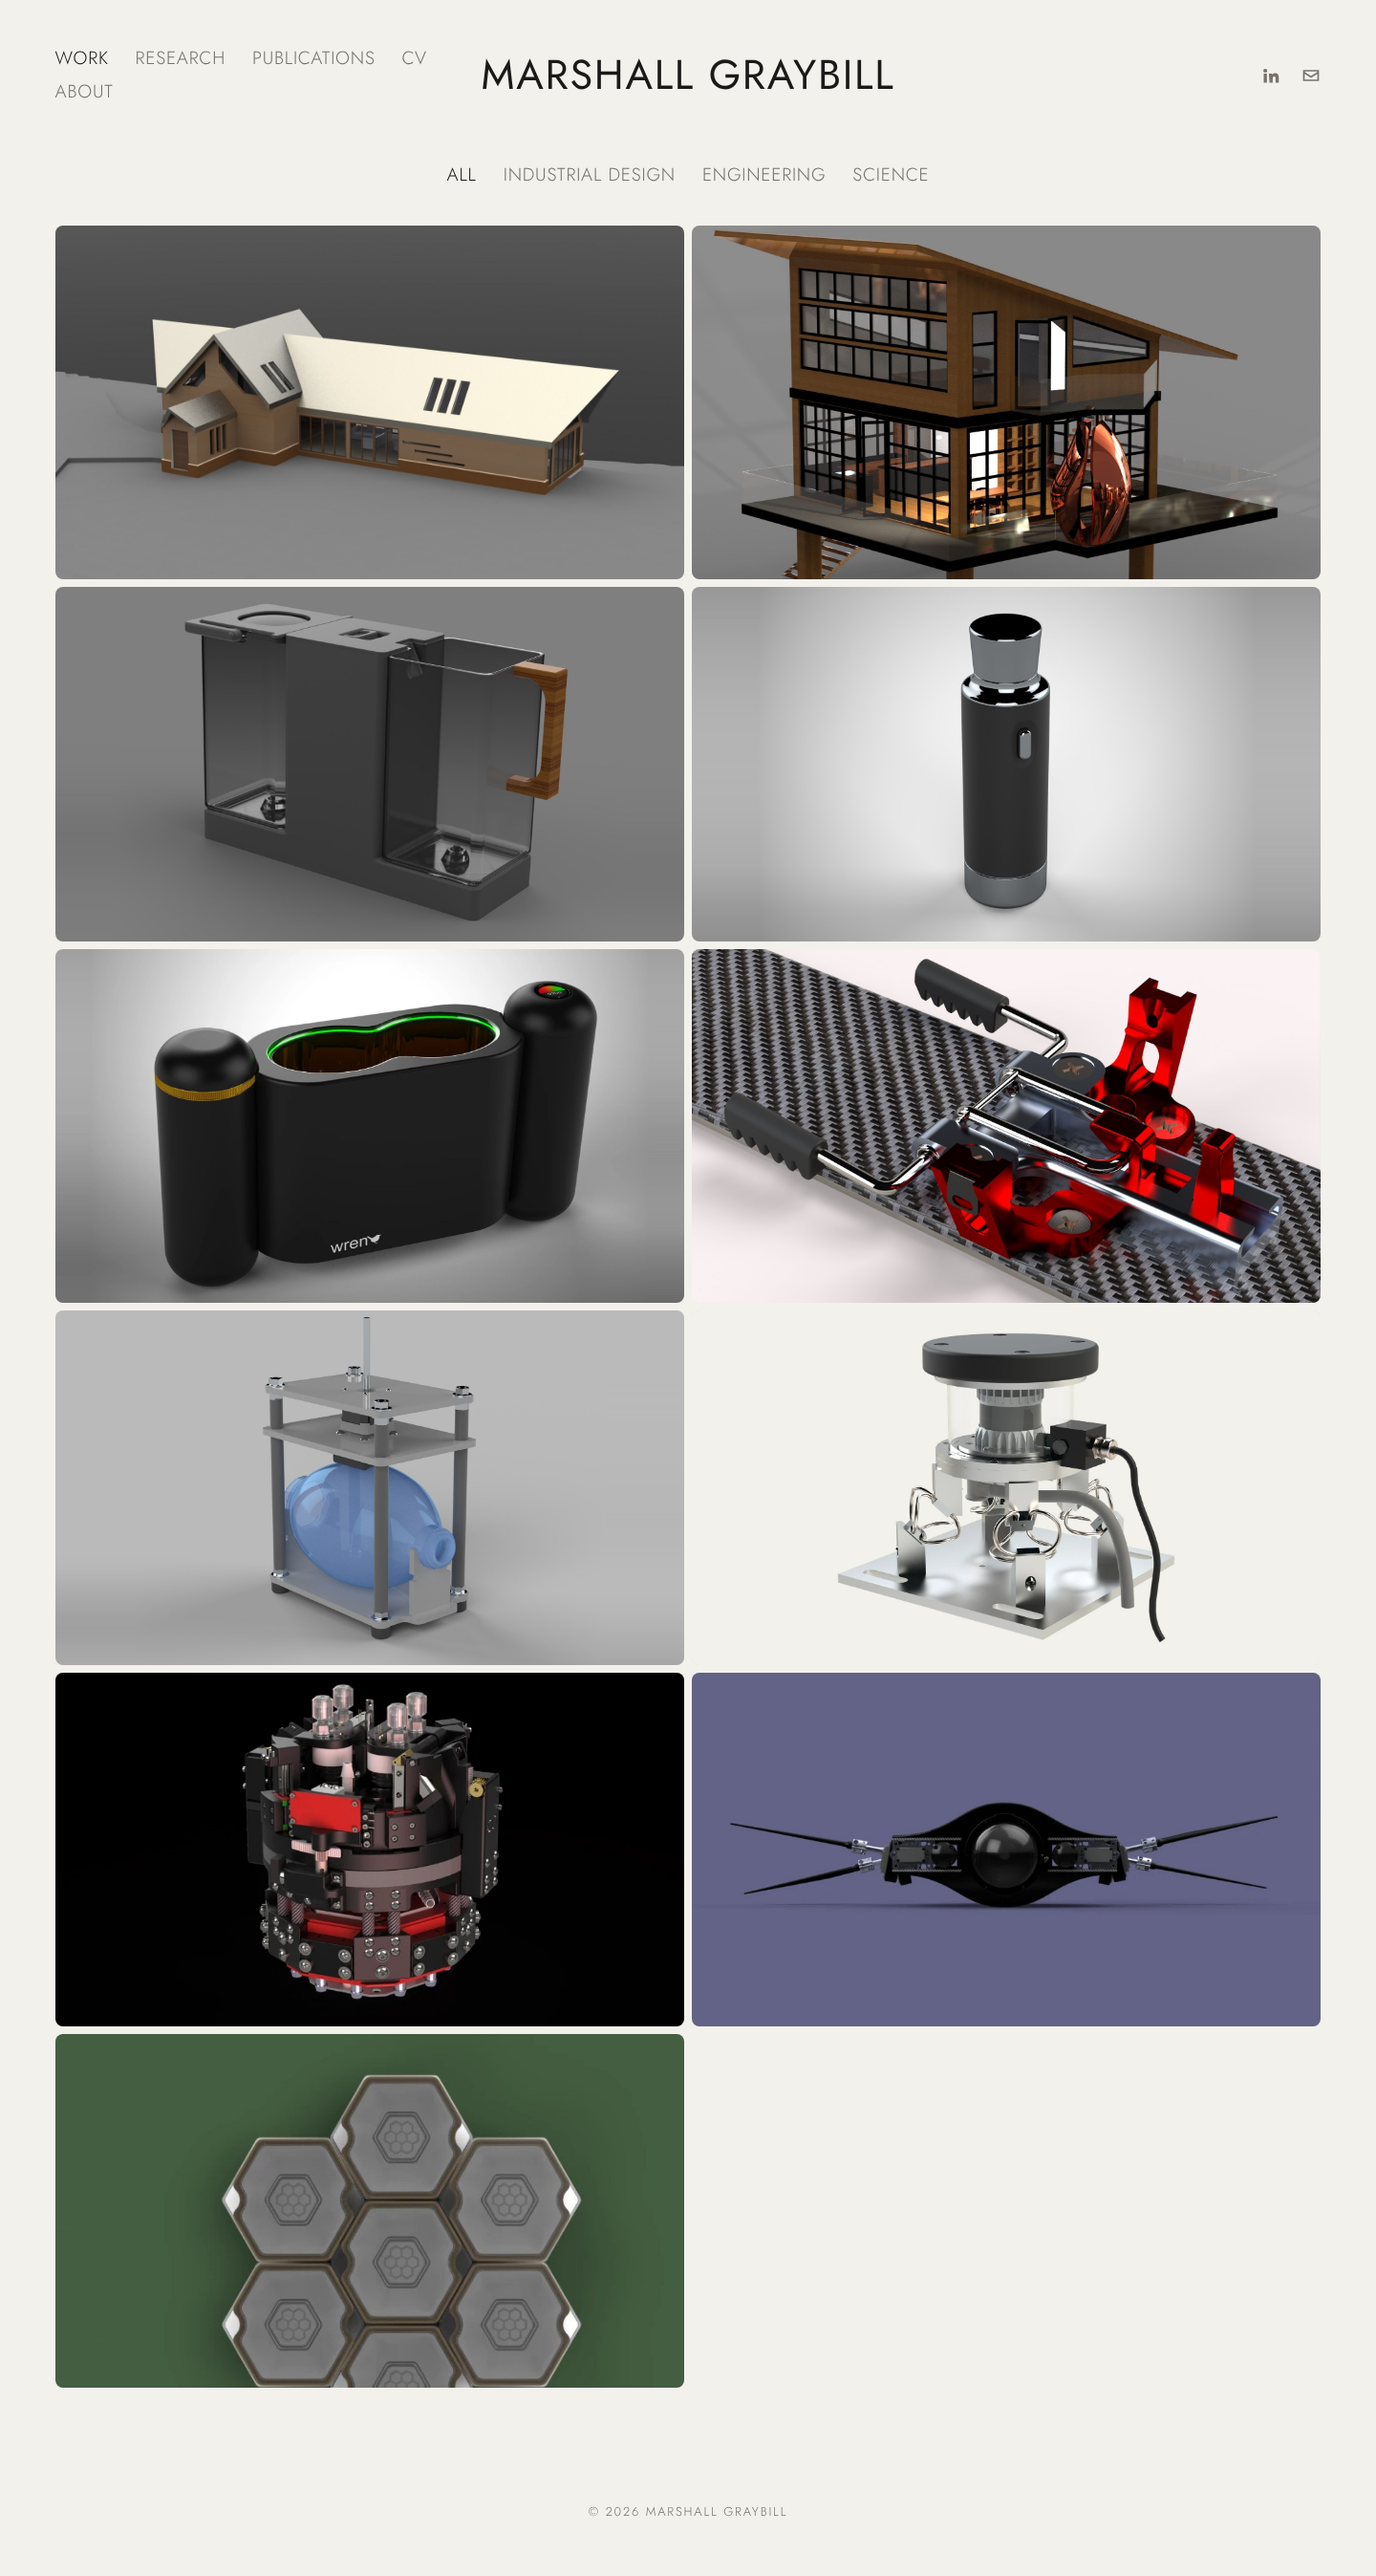
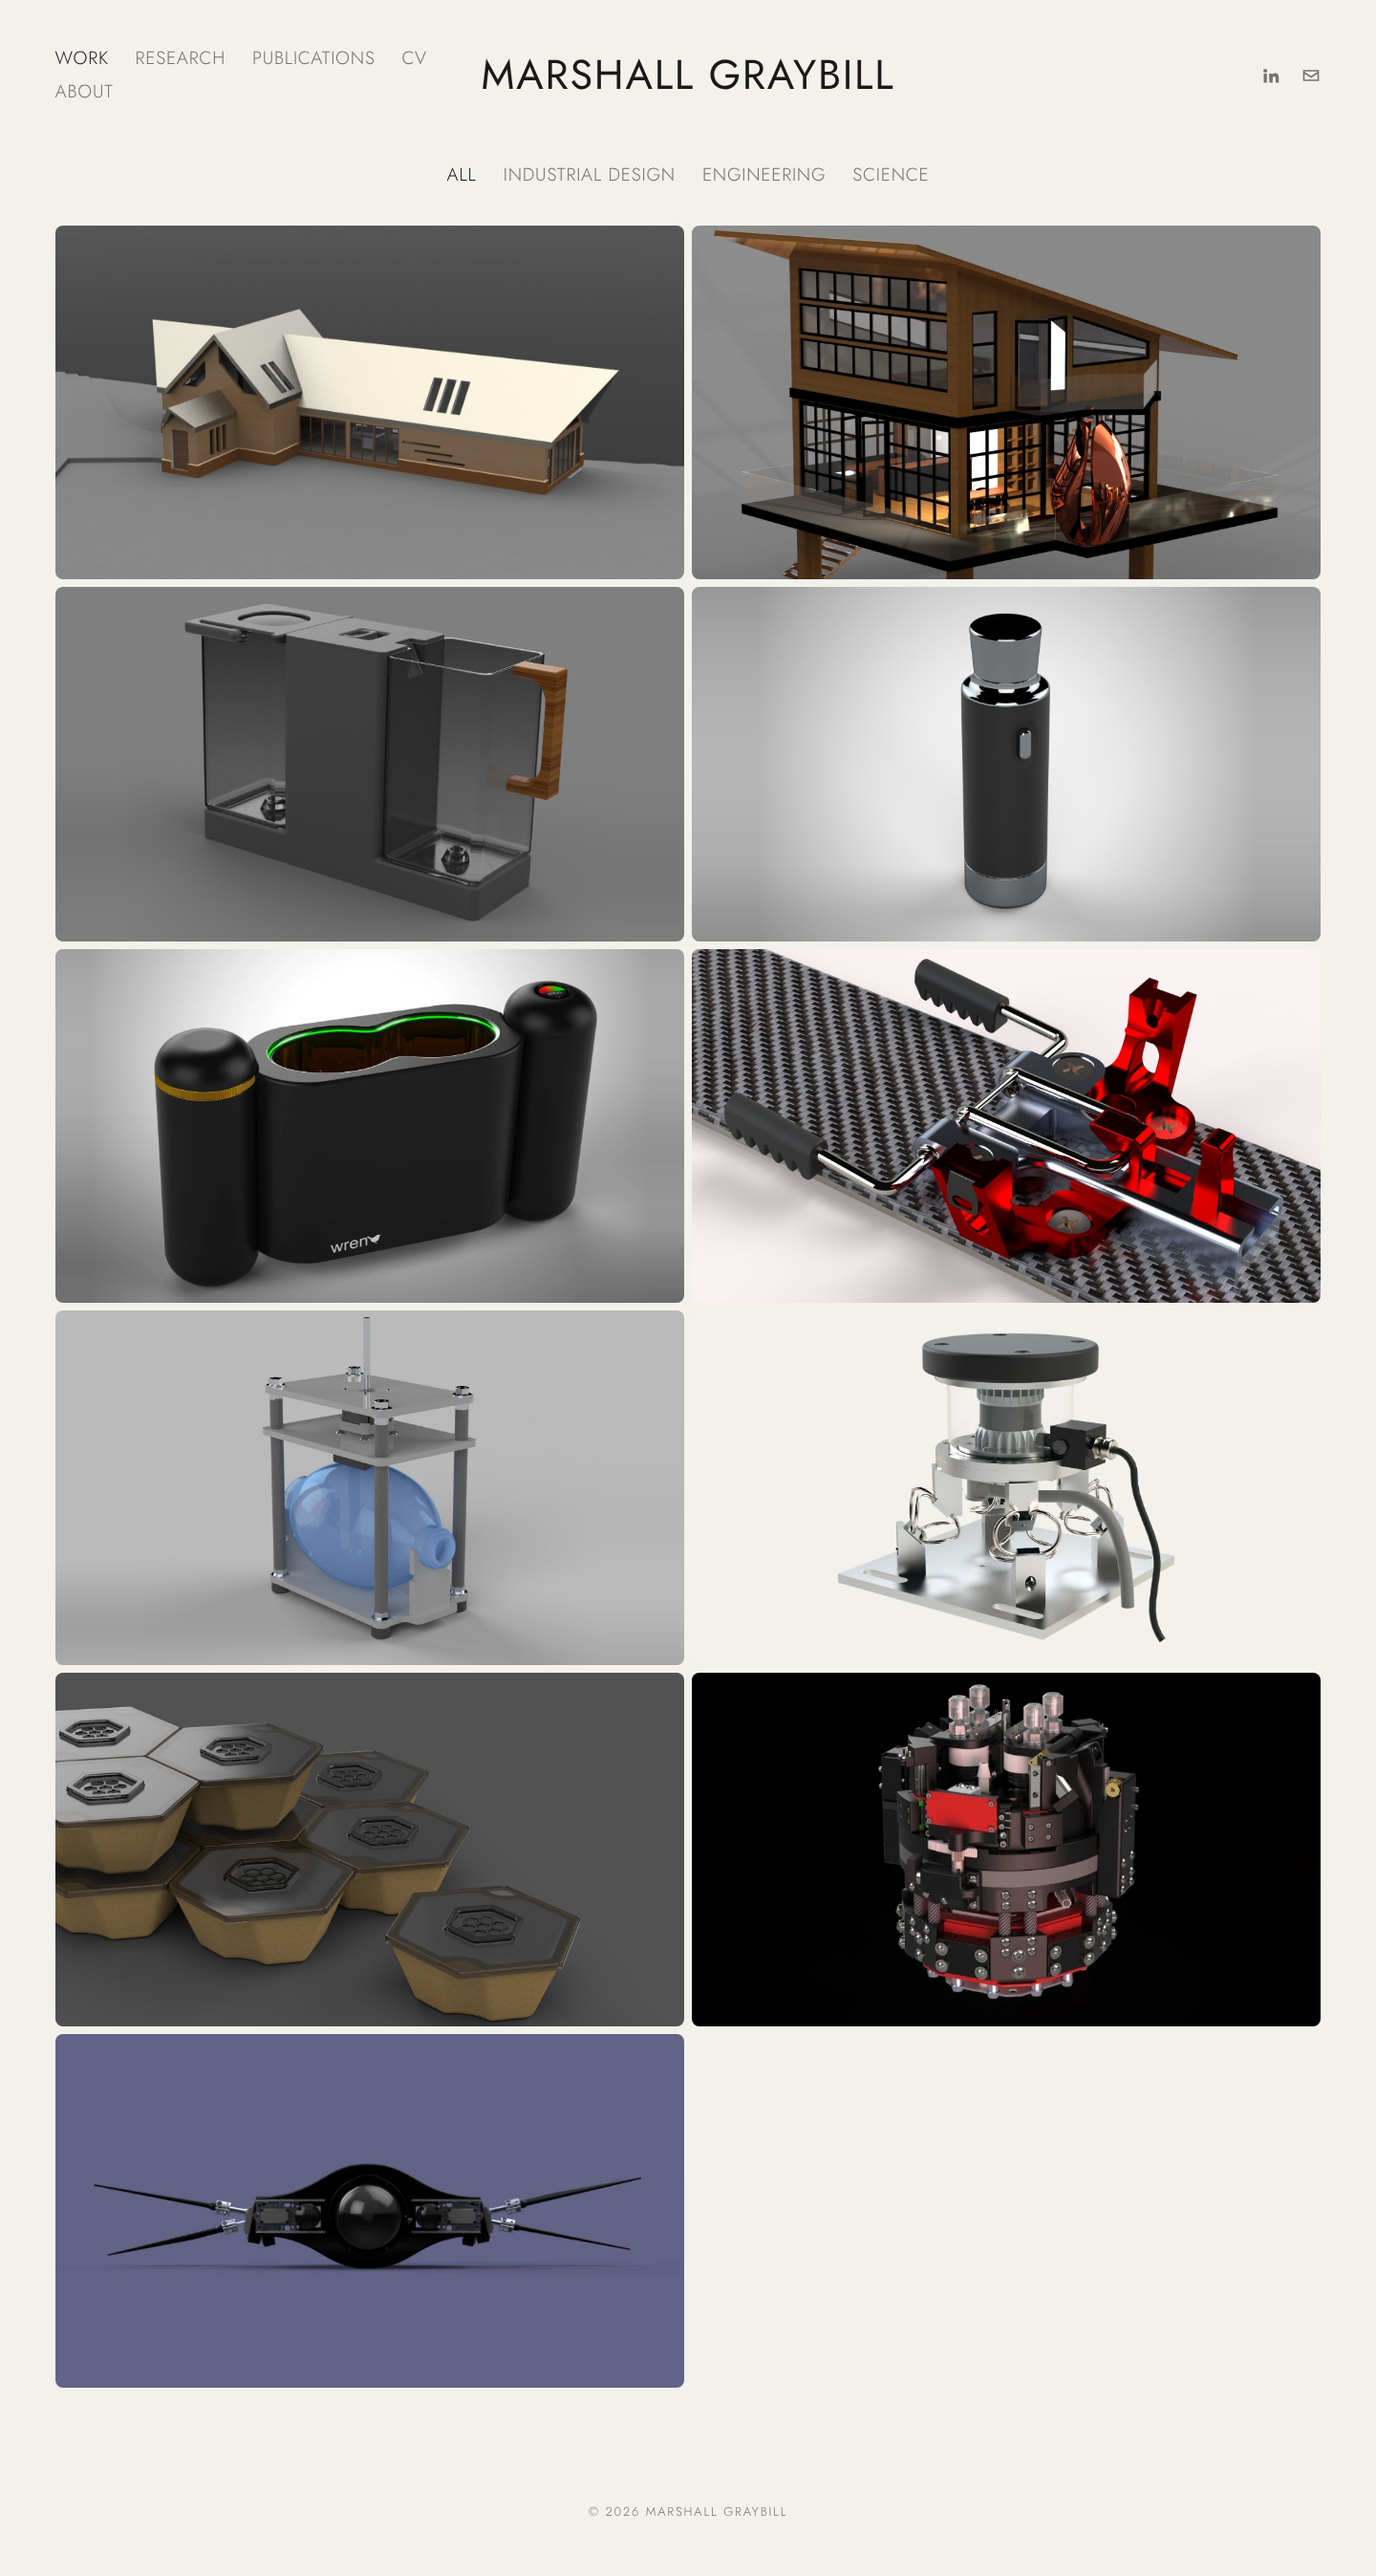
Add Spent Packaging Innovations project page; replace hex placeholder
Claude-Session: https://claude.ai/code/session_01FRyJPBebUtKmxdzujR9oGm

Changed region(s): [[0.0312, 0.6234, 0.9688, 0.9351]]

diff --git a/projects/spent.html b/projects/spent.html
@@ -1,0 +1,76 @@
+<!doctype html>
+<html lang="en">
+<head>
+  <meta charset="utf-8">
+  <meta name="viewport" content="width=device-width, initial-scale=1">
+  <title>Spent Packaging Innovations · Marshall Graybill</title>
+  <meta name="description" content="Spent Innovations: home-compostable hexagonal takeout containers made from brewery spent grain and agar-based bio-plastic.">
+  <link rel="preconnect" href="https://fonts.googleapis.com">
+  <link rel="preconnect" href="https://fonts.gstatic.com" crossorigin>
+  <link href="https://fonts.googleapis.com/css2?family=Jost:wght@300;400&display=swap" rel="stylesheet">
+  <link rel="stylesheet" href="../css/style.css">
+</head>
+<body>
+
+<header class="site-header">
+  <nav class="nav" aria-label="Main">
+    <a class="on" href="../index.html">Work</a>
+    <a href="../research.html">Research</a>
+    <a href="../publications.html">Publications</a>
+    <a href="../cv.html">CV</a>
+    <a href="../about.html">About</a>
+  </nav>
+  <a class="name" href="../index.html">Marshall Graybill</a>
+  <div class="icons">
+    <a href="#" aria-label="LinkedIn"><svg viewBox="0 0 24 24" fill="currentColor"><path d="M4.98 3.5a2.5 2.5 0 1 1 0 5 2.5 2.5 0 0 1 0-5zM3 9.5h4V21H3zM9.5 9.5h3.8v1.6h.06c.53-1 1.83-2.06 3.77-2.06 4.03 0 4.77 2.65 4.77 6.1V21h-4v-5.1c0-1.22-.02-2.79-1.7-2.79-1.7 0-1.96 1.33-1.96 2.7V21h-4z"/></svg></a>
+    <a href="mailto:" aria-label="Email"><svg viewBox="0 0 24 24" fill="currentColor"><path d="M2 5h20v14H2zm2 2v.5l8 5 8-5V7zm0 2.86V17h16V9.86l-8 5z"/></svg></a>
+  </div>
+</header>
+
+<main class="project">
+  <section class="project-head">
+    <div class="kicker">Industrial Design · Sustainable Packaging</div>
+    <h1 class="logo" style="max-width:min(220px,50vw)"><img src="../images/projects/spent/spent-logo.png" alt="Spent"></h1>
+    <p>Spent Innovations offers a more sustainable alternative to conventional takeout containers. The COVID-19 pandemic has shifted dining habits, with takeout becoming the preferred option, resulting in increased waste. It's time for a solution that allows consumers to enjoy dining out without the guilt.</p>
+    <p>Spent Innovations' products are made from spent grain sourced from breweries and agar-based bio-plastic, both of which decompose quickly in any traditional composting environment. Say goodbye to microplastics, styrofoam waste, and compostable products that only break down in industrial composting facilities.</p>
+    <ul class="facts">
+      <li>Materials <b>Brewery spent grain · Agar bio-plastic</b></li>
+      <li>End of life <b>Home compostable</b></li>
+      <li>Course <b>Advanced Product Design · CU Boulder</b></li>
+    </ul>
+  </section>
+
+  <div class="shots">
+    <figure><img src="../images/projects/spent/stacked.jpg" alt="Hexagonal Spent takeout containers with smoked bio-plastic lids, nested together and stacked" loading="lazy"></figure>
+  </div>
+
+  <section class="story">
+    <h2>Background</h2>
+    <p>Spent Innovations originated as a project in the Advanced Product Design class at the University of Colorado Boulder. Collaborating with a team of engineers in the M.S. Mechanical Engineering and Design Program, we set out to address unmet needs in the restaurant industry by engaging with consumers, staff, and restaurant owners.</p>
+    <p>Our goal was to create a product with a clear purpose, avoiding the creation of yet another item that would contribute to more waste. Recognizing that the COVID-19 pandemic had fundamentally changed dining habits, we began developing our need statement to guide our solution.</p>
+    <blockquote class="pull">&ldquo;Restaurants need an environmentally and economically sustainable method of packaging take-out food that preserves quality.&rdquo;</blockquote>
+  </section>
+
+  <div class="shots">
+    <figure><img src="../images/projects/spent/prototypes.jpg" alt="Two prototype hexagonal bowls formed from pressed brewery spent grain" loading="lazy"><figcaption>Prototypes · formed from brewery spent grain</figcaption></figure>
+  </div>
+
+  <section class="story">
+    <h2>Form</h2>
+    <p>The Spent brand needed a distinctive shape that would embody the values of the project. The hexagon, a form frequently found in nature—such as in honeycombs, sea foam, and snowflakes—was chosen for its inherent utility.</p>
+    <p>Hexagons are structurally strong and can be efficiently packed into larger configurations, making them ideal for takeout packaging. This shape helps ensure that food stays secure during transport while also optimizing space in shipping, ultimately saving money and reducing emissions.</p>
+  </section>
+
+  <div class="shots">
+    <figure><img src="../images/projects/spent/single.jpg" alt="Single Spent container with a clear hexagonal lid embossed with a honeycomb pattern" loading="lazy"><figcaption>Container with honeycomb-embossed lid</figcaption></figure>
+  </div>
+
+  <nav class="pager" aria-label="Projects">
+    <a href="trimble-lidar.html">← Trimble LiDAR Enclosure</a>
+    <a href="../index.html">All work →</a>
+  </nav>
+</main>
+
+<footer class="site-footer">© Marshall Graybill</footer>
+</body>
+</html>

diff --git a/index.html b/index.html
@@ -80,6 +80,11 @@
     <div class="cap"><span>Engineering · Senior Project</span><h3>Trimble LiDAR Enclosure</h3></div>
   </a>
 
+  <a class="tile" href="projects/spent.html" data-tags="id sci">
+    <img src="images/projects/spent/cover.jpg" alt="Spent hexagonal compostable takeout containers">
+    <div class="cap"><span>Industrial Design · Sustainable Packaging</span><h3>Spent Packaging</h3></div>
+  </a>
+
   <!-- Placeholders below: images cropped from the old site until full-size files are added -->
   <a class="tile" href="#" data-tags="eng sci">
     <img src="images/projects/placeholder/mechanism.jpg" alt="">
@@ -88,10 +93,6 @@
   <a class="tile" href="#" data-tags="eng">
     <img src="images/projects/placeholder/drone.jpg" alt="">
     <div class="cap"><span>Engineering</span><h3>Project Title</h3></div>
-  </a>
-  <a class="tile" href="#" data-tags="id">
-    <img src="images/projects/placeholder/hex.jpg" alt="">
-    <div class="cap"><span>Industrial Design</span><h3>Project Title</h3></div>
   </a>
 </main>
 

diff --git a/css/style.css b/css/style.css
@@ -102,6 +102,8 @@ img { display: block; max-width: 100%; height: auto; }
 .story h2 { margin: 0 0 14px; font-size: 14px; font-weight: 400; letter-spacing: .22em; text-transform: uppercase; color: var(--dim);
   border-top: 1px solid #d9d5cc; padding-top: 18px; }
 .story p { margin: 0 0 1em; font-size: 18px; line-height: 1.7; }
+.story .pull { margin: 32px 0 0; padding: 4px 0 4px 24px; border-left: 2px solid var(--ink);
+  font-size: clamp(20px, 2.2vw, 26px); line-height: 1.45; font-weight: 300; font-style: italic; }
 
 .pager { display: flex; justify-content: space-between; gap: 16px; flex-wrap: wrap; max-width: 1600px; margin: 64px auto 0;
   padding-top: 24px; border-top: 1px solid #d9d5cc; font-size: 17px; letter-spacing: .06em; text-transform: uppercase; }

diff --git a/projects/trimble-lidar.html b/projects/trimble-lidar.html
@@ -60,7 +60,7 @@
 
   <nav class="pager" aria-label="Projects">
     <a href="bvm-ventilator.html">← BVM Ventilator</a>
-    <a href="../index.html">All work →</a>
+    <a href="spent.html">Next: Spent Packaging →</a>
   </nav>
 </main>
 
